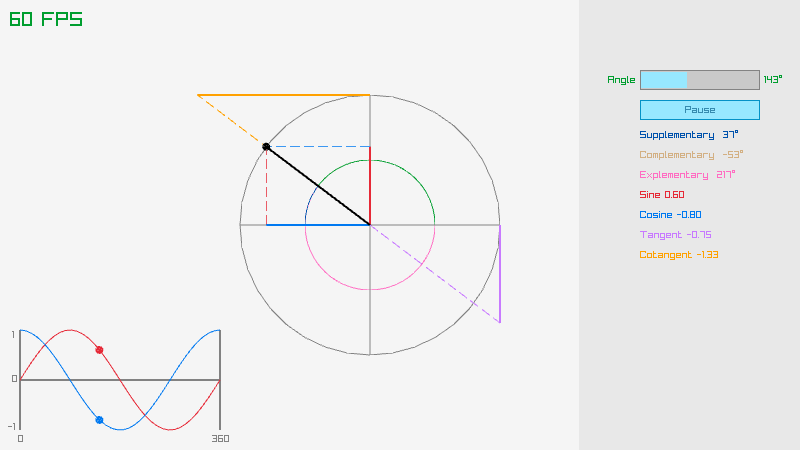
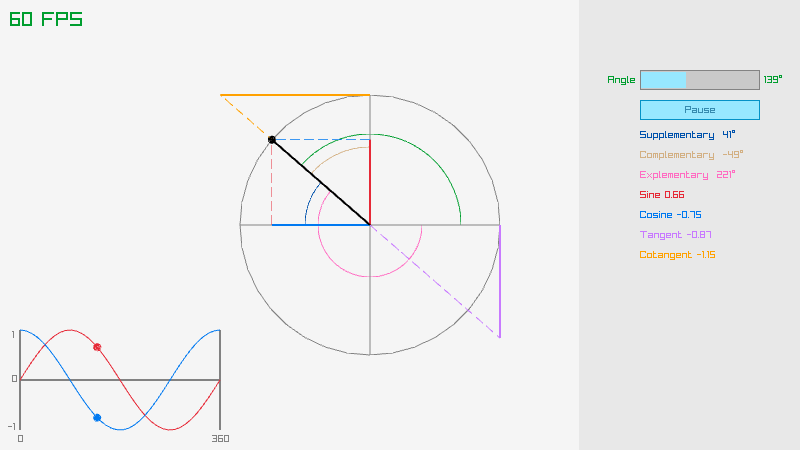
Varying radius

diff --git a/examples/shapes/shapes_math_sine_cosine.c b/examples/shapes/shapes_math_sine_cosine.c
@@ -88,10 +88,10 @@ int main(void)
             ClearBackground(RAYWHITE);
             
             DrawCircleLinesV(center, radius, GRAY);
-            DrawCircleSectorLines(center, radius/2 , -angle, -360.f , 36.0f, PINK);
-            DrawCircleSectorLines(center, radius/2 , -angle, -180.f , 36.0f, DARKBLUE);
-            DrawCircleSectorLines(center, radius/2 , -angle, -90.f , 36.0f, BEIGE); 
-            DrawCircleSectorLines(center, radius/2 , -angle, 0.f, 36.0f, LIME); 
+            DrawCircleSectorLines(center, radius*0.4f , -angle, -360.f , 36.0f, PINK);
+            DrawCircleSectorLines(center, radius*0.5f , -angle, -180.f , 36.0f, DARKBLUE);
+            DrawCircleSectorLines(center, radius*0.6f , -angle, -90.f , 36.0f, BEIGE); 
+            DrawCircleSectorLines(center, radius*0.7f , -angle, 0.f, 36.0f, LIME); 
             DrawLineEx((Vector2){ center.x, limitMin.y }, (Vector2){ center.x, limitMax.y }, 1.0f, GRAY);      
             DrawLineEx((Vector2){ limitMin.x, center.y }, (Vector2){ limitMax.x, center.y }, 1.f, GRAY);
             DrawLineEx((Vector2){ center.x, center.y }, (Vector2){ center.x, point.y }, 2.0f, RED);  
